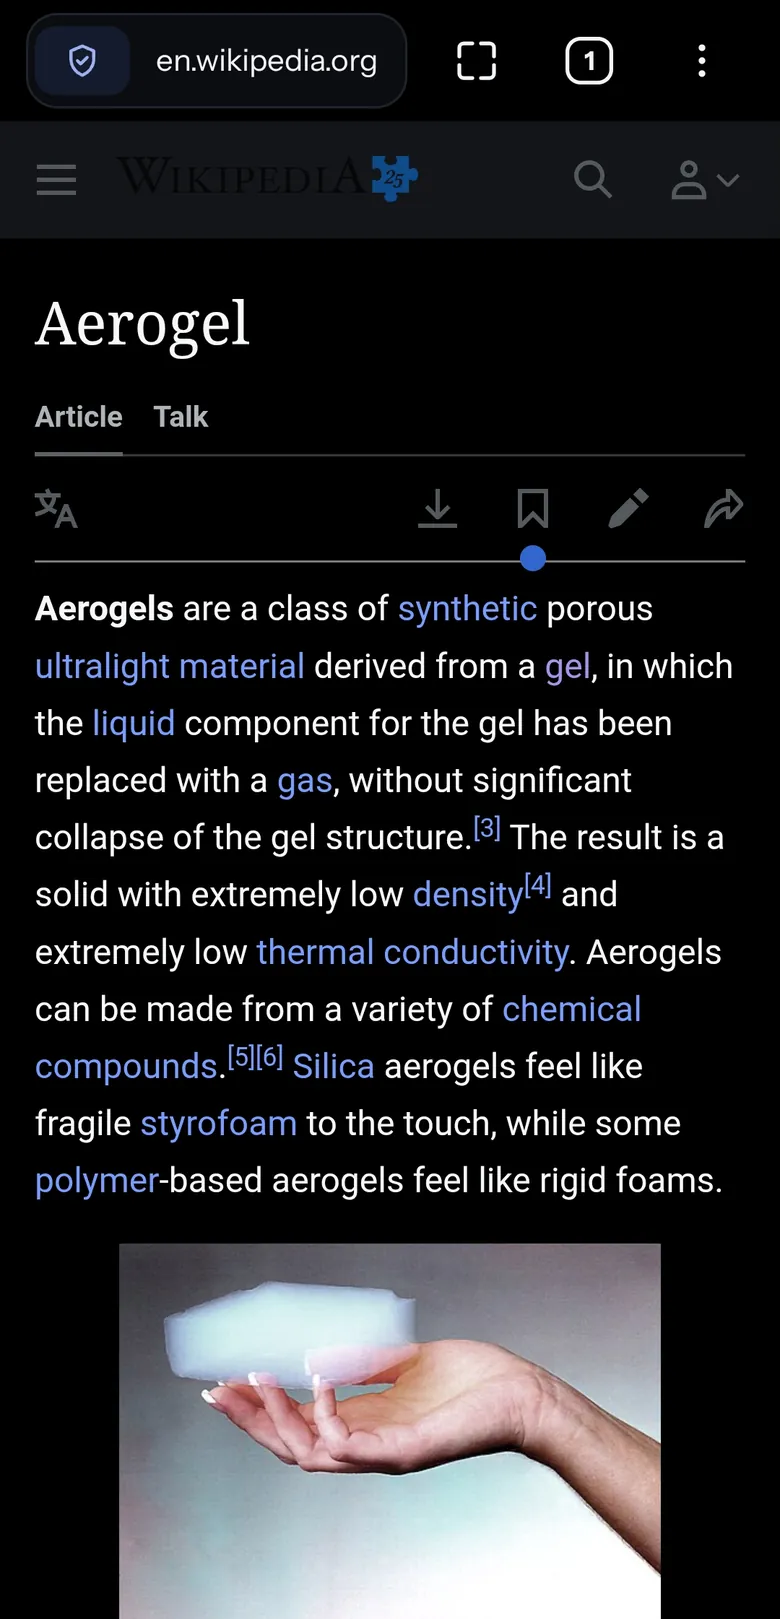
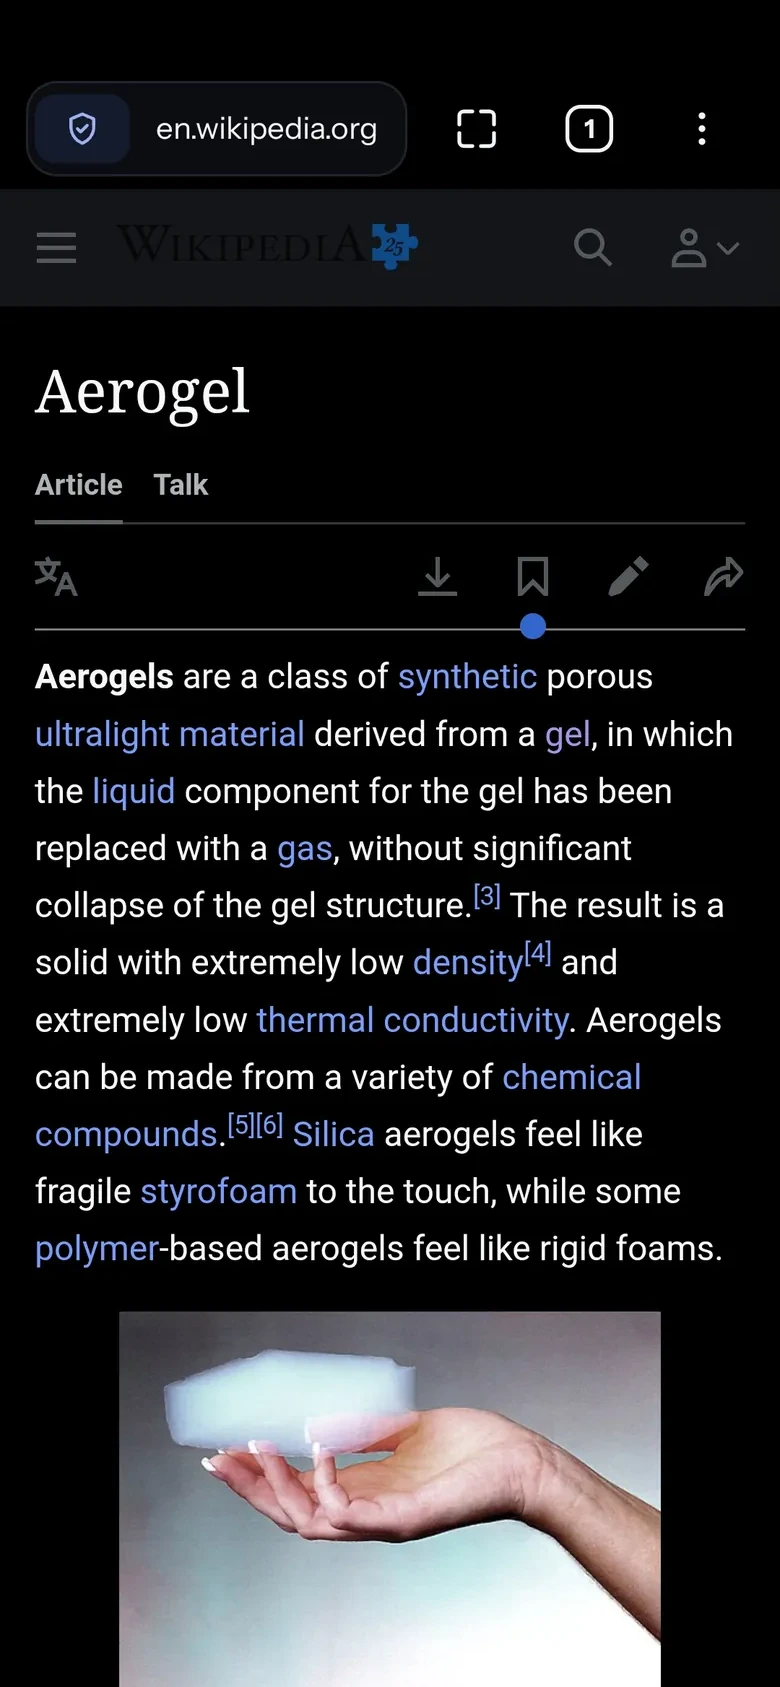
hero screenshot fits the frame

Changed region(s): [[0.0, 0.0, 1.0, 0.9574], [0.8923, 0.2779, 0.9538, 0.3706]]

diff --git a/index.html b/index.html
@@ -141,7 +141,7 @@
  .row .panel{grid-column:6 / span 7}
  .row.flip .panel{grid-column:1 / span 7; grid-row:1}
  .row.flip .text{grid-column:9 / span 4}
- h1{margin:0; font-size:68px; font-weight:700; line-height:1.02; letter-spacing:-.035em}
+ h1{margin:0; font-size:68px; font-weight:700; line-height:1.02; letter-spacing:-.035em; text-wrap:balance}
  h2{margin:0; font-size:52px; font-weight:700; line-height:1.05; letter-spacing:-.03em}
  .lead{margin:24px 0 0; font-size:20px; color:var(--dim)}
  .row p{margin:20px 0 0; font-size:19px; color:var(--dim)}
